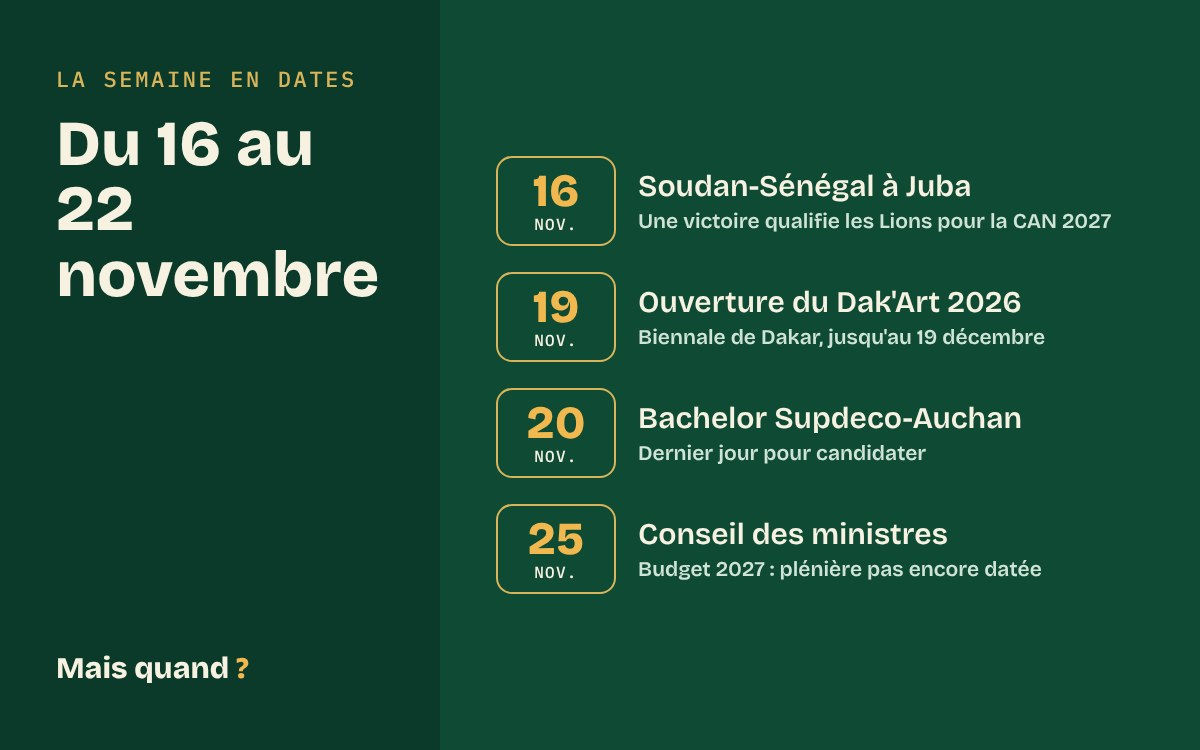
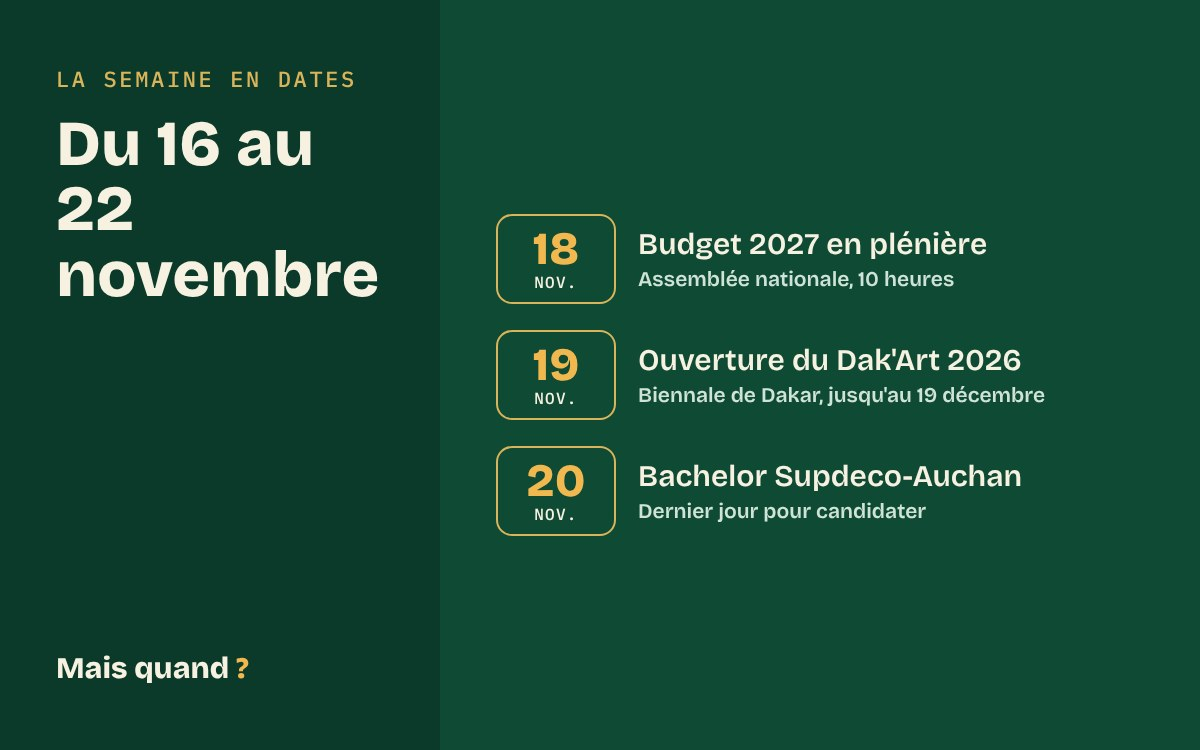
Semaine en dates : plénière du 18 novembre, victoire 4-2 à Juba
Claude-Session: https://claude.ai/code/session_011uKcnQFGUBZrCq8XKYaVDU

Changed region(s): [[0.4008, 0.184, 0.925, 0.7973]]

diff --git a/index.html b/index.html
@@ -376,7 +376,7 @@ footer{border-top:1px solid var(--line);padding-block:24px;color:var(--muted);fo
 
 <script>
 const ARTICLES = [
- {"id":"la-semaine-en-dates-16-au-22-novembre","cat":"Société","titre":"La semaine en dates : ce qui vous attend du 16 au 22 novembre","chapo":"Les Lions peuvent se qualifier pour la CAN 2027, le Dak'Art s'ouvre à Dakar, dernier jour pour une formation gratuite avec embauche… Voici les dates à retenir cette semaine.","date":"2026-11-16","min":2,"c":["#5b3a6e","#a983c2"],"photo":"images/articles/semaine-en-dates-16-novembre.jpg","pos":"center","texte":["Après la fin des JOJ, la semaine est plus calme, mais plusieurs rendez-vous comptent. Voici ce qu'il faut savoir, jour par jour.","**Lundi 16 novembre** : les Lions affrontent le Soudan à Juba (Soudan du Sud), pour le match retour de la 4e journée des éliminatoires de la CAN 2027. Après leur victoire 4-1 à Dakar le 12 novembre, une nouvelle victoire leur assurerait la qualification, selon la presse. C'est aussi le dernier jour d'examen des budgets ministériels en commission à l'Assemblée nationale, selon le calendrier rapporté par Dakaractu.","**Jeudi 19 novembre** : ouverture du **Dak'Art 2026**, la 16e Biennale de l'art africain contemporain, jusqu'au 19 décembre. Les expositions se tiennent notamment à l'ancien Palais de justice, au Musée des civilisations noires et au musée de l'IFAN. Le programme détaillé n'est pas encore publié.","**Vendredi 20 novembre** : dernier jour pour candidater au **Bachelor Supdeco-Auchan**, une formation gratuite de 12 mois en alternance avec embauche à la clé, selon l'école. Il faut déjà un Bac +2. Candidature uniquement sur le site de Supdeco.","**Impôts et douane** : pas de nouvelle échéance annoncée cette semaine par la DGID ou la Douane, à notre connaissance. Rappel : depuis le 1er octobre, la plateforme en ligne SENTAX est ouverte aux contribuables des centres CME1, CME2 et CPR, selon la DGID. Côté importations, la suspension des importations de sucre, annoncée pour 8 à 9 mois, entre en vigueur avec la reprise de l'usine de la CSS.","**Financements, marchés et formations** : nous n'avons trouvé aucun nouvel appel à candidatures officiel de la DER/FJ ni de l'ONFP cette semaine. Méfiez-vous des faux appels qui circulent sur WhatsApp : seuls les sites der.sn et onfp.sn font foi.","**Budget 2027** : la date du vote en séance plénière n'est toujours pas connue. Prochain Conseil des ministres : mercredi 25 novembre.","À noter pour la fin du mois : ouverture de la campagne arachidière fin novembre, Forum international des chargeurs africains (FICA 2026) à Dakar du 30 novembre au 2 décembre, et prochain indice des prix des matériaux de construction de l'ANSD vers le 30 novembre.","Toutes les dates suivies sont sur la page « Mais quand ? » du site."],"sait":["Lundi 16 novembre : Soudan-Sénégal à Juba ; une victoire qualifierait les Lions pour la CAN 2027.","Jeudi 19 novembre : ouverture du Dak'Art 2026, jusqu'au 19 décembre.","Vendredi 20 novembre : dernier jour pour le Bachelor Supdeco-Auchan."],"saitPas":["La date du vote du budget 2027 en séance plénière.","Le programme détaillé de l'ouverture du Dak'Art."],"src":[{"n":"Le Soleil : Sénégal-Soudan (4-1)","u":"https://lesoleil.sn/actualites/sports/senegal-soudan-4-1-de-la-magie-dans-lair-au-stade-leopold-sedar-senghor/"},{"n":"Le Soleil : les Lions à 90 minutes d'une qualification à la CAN 2027","u":"https://lesoleil.sn/actualites/sports/senegal-soudan-a-13h00-les-lions-a-90-minutes-dune-qualification-a-la-can-2027/"},{"n":"Le Soleil : la Biennale prévue à Dakar du 19 novembre au 19 décembre 2026","u":"https://lesoleil.sn/actualites/arts-et-culture/arts-contemporains-africains-la-biennale-prevue-a-dakar-du-19-novembre-au-19-decembre-2026/"},{"n":"Au Sénégal : Dak'Art 2026, tout ce qu'il faut savoir","u":"https://au-senegal.com/dak-art-2026-tout-ce-qu-il-faut-savoir-sur-la-prochaine-biennale-de-dakar,18544.html?lang=fr"},{"n":"Dakaractu : la Commission des finances rejette la LFI et tous les budgets ministériels","u":"https://www.dakaractu.com/Budget-2027-La-commission-des-finances-rejette-la-LFI-et-tous-les-budgets-ministeriels_a277929.html"},{"n":"DGID : actualités et communiqués","u":"https://www.dgid.sn/communication"},{"n":"DER/FJ : site officiel","u":"https://www.der.sn/"},{"n":"Mais quand ? : Vrai, Auchan finance une formation avec embauche","u":"https://maisquand.com/v/vf-auchan-supdeco-bachelor/"},{"n":"Mais quand ? : sucre, l'État suspend de nouveau les importations","u":"https://maisquand.com/a/sucre-l-etat-suspend-de-nouveau-les-importations-a-partir-de-novembre/"}]},
+ {"id":"la-semaine-en-dates-16-au-22-novembre","cat":"Société","titre":"La semaine en dates : ce qui vous attend du 16 au 22 novembre","chapo":"Vote du budget 2027 en séance plénière, ouverture du Dak'Art, Lions en route vers la CAN 2027, dernier jour pour une formation gratuite avec embauche… Voici les dates à retenir cette semaine.","date":"2026-11-16","min":2,"c":["#5b3a6e","#a983c2"],"photo":"images/articles/semaine-en-dates-16-novembre.jpg","pos":"center","texte":["Après la fin des JOJ, la semaine est plus calme, mais plusieurs rendez-vous comptent. Voici ce qu'il faut savoir, jour par jour.","**Lundi 16 novembre** : les Lions ont battu le Soudan 4-2 à Juba (Soudan du Sud), après le 4-1 de l'aller à Dakar. Ils sont en tête du groupe J ; leur qualification pour la CAN 2027 pourrait être acquise dès mardi selon le résultat de Mozambique-Éthiopie, selon la presse. C'était aussi le dernier jour d'examen des budgets ministériels en commission.","**Mercredi 18 novembre** : **séance plénière à l'Assemblée nationale sur le budget 2027**, à 10 heures, selon Dakarposte et Senegal24news. Les députés voteront d'abord les recettes, puis les crédits de chaque ministère, après le rejet de presque tous les budgets en commission. Nous suivrons le vote.","**Jeudi 19 novembre** : ouverture du **Dak'Art 2026**, la 16e Biennale de l'art africain contemporain, jusqu'au 19 décembre. Les expositions se tiennent notamment à l'ancien Palais de justice, au Musée des civilisations noires et au musée de l'IFAN. Le programme détaillé n'est pas encore publié.","**Vendredi 20 novembre** : dernier jour pour candidater au **Bachelor Supdeco-Auchan**, une formation gratuite de 12 mois en alternance avec embauche à la clé, selon l'école. Il faut déjà un Bac +2. Candidature uniquement sur le site de Supdeco.","**Impôts et douane** : pas de nouvelle échéance annoncée cette semaine par la DGID ou la Douane, à notre connaissance. Rappel : depuis le 1er octobre, la plateforme en ligne SENTAX est ouverte aux contribuables des centres CME1, CME2 et CPR, selon la DGID. Côté importations, la suspension des importations de sucre, annoncée pour 8 à 9 mois, entre en vigueur avec la reprise de l'usine de la CSS.","**Financements, marchés et formations** : nous n'avons trouvé aucun nouvel appel à candidatures officiel de la DER/FJ ni de l'ONFP cette semaine. Méfiez-vous des faux appels qui circulent sur WhatsApp : seuls les sites der.sn et onfp.sn font foi.","**Mercredi 25 novembre** : prochain Conseil des ministres.","À noter pour la fin du mois : ouverture de la campagne arachidière fin novembre, Forum international des chargeurs africains (FICA 2026) à Dakar du 30 novembre au 2 décembre, et prochain indice des prix des matériaux de construction de l'ANSD vers le 30 novembre.","Toutes les dates suivies sont sur la page « Mais quand ? » du site."],"sait":["Mercredi 18 novembre, 10 heures : séance plénière sur le budget 2027, selon la presse.","Jeudi 19 novembre : ouverture du Dak'Art 2026, jusqu'au 19 décembre.","Vendredi 20 novembre : dernier jour pour le Bachelor Supdeco-Auchan."],"saitPas":["Le résultat du vote du budget 2027 et la suite en cas de rejet.","Le programme détaillé de l'ouverture du Dak'Art."],"src":[{"n":"Le Soleil : Sénégal-Soudan (4-1)","u":"https://lesoleil.sn/actualites/sports/senegal-soudan-4-1-de-la-magie-dans-lair-au-stade-leopold-sedar-senghor/"},{"n":"Le Soleil : les Lions à 90 minutes d'une qualification à la CAN 2027","u":"https://lesoleil.sn/actualites/sports/senegal-soudan-a-13h00-les-lions-a-90-minutes-dune-qualification-a-la-can-2027/"},{"n":"Senego : le Sénégal renverse le Soudan et s'impose 4-2 à Juba","u":"https://senego.com/le-senegal-renverse-le-soudan-et-simpose-4-2-a-juba-apres-avoir-ete-rejoint_2024553.html"},{"n":"Dakarposte : les députés convoqués en séance plénière le mercredi 18 novembre 2026","u":"https://www.dakarposte.com/Assemblee-nationale-Les-deputes-convoques-en-seance-pleniere-ce-mercredi-18-novembre-2026-pour-l-examen-du-projet-de-Loi_a88335.html"},{"n":"Le Soleil : la Biennale prévue à Dakar du 19 novembre au 19 décembre 2026","u":"https://lesoleil.sn/actualites/arts-et-culture/arts-contemporains-africains-la-biennale-prevue-a-dakar-du-19-novembre-au-19-decembre-2026/"},{"n":"Au Sénégal : Dak'Art 2026, tout ce qu'il faut savoir","u":"https://au-senegal.com/dak-art-2026-tout-ce-qu-il-faut-savoir-sur-la-prochaine-biennale-de-dakar,18544.html?lang=fr"},{"n":"Dakaractu : la Commission des finances rejette la LFI et tous les budgets ministériels","u":"https://www.dakaractu.com/Budget-2027-La-commission-des-finances-rejette-la-LFI-et-tous-les-budgets-ministeriels_a277929.html"},{"n":"DGID : actualités et communiqués","u":"https://www.dgid.sn/communication"},{"n":"DER/FJ : site officiel","u":"https://www.der.sn/"},{"n":"Mais quand ? : Vrai, Auchan finance une formation avec embauche","u":"https://maisquand.com/v/vf-auchan-supdeco-bachelor/"},{"n":"Mais quand ? : sucre, l'État suspend de nouveau les importations","u":"https://maisquand.com/a/sucre-l-etat-suspend-de-nouveau-les-importations-a-partir-de-novembre/"}]},
  {"id":"budget-2027-transports-taxis-autocars-ce-qui-etait-prevu","cat":"Société","titre":"Budget 2027 des Transports : 2 000 taxis, 100 autocars… ce qui était prévu avant le rejet en commission","chapo":"Le projet de budget 2027 du ministère des Transports terrestres et aériens, 104,34 milliards de francs CFA, a été rejeté en commission le 13 novembre. Il prévoyait notamment 2 000 taxis urbains à Dakar et Thiès et 100 autocars. Ce qui était prévu, et ce que ce rejet veut dire.","date":"2026-11-15","min":3,"c":["#0f4a35","#2f9e5b"],"texte":["Le vendredi 13 novembre, les commissions de l'Assemblée nationale ont **rejeté le projet de budget 2027 du ministère des Transports terrestres et aériens**, d'un montant de **104,34 milliards de francs CFA (environ 159 millions d'euros)**, rapportent Senego, Seneweb et PressAfrik. Il s'agit d'un **projet présenté en commission, pas d'un budget voté** : le texte doit encore passer en séance plénière.","**Ce que prévoyait le projet**, selon la presse :","• **Transport routier : 48,68 milliards de francs CFA** (environ 74 millions d'euros), pour la modernisation du BRT et le renouvellement du parc : **2 000 taxis urbains à Dakar et Thiès**, **100 taxis de proximité** dans les localités de l'intérieur et **100 autocars**, ainsi que des **systèmes intelligents de gestion de la circulation** ;","• **Transport ferroviaire : 44,17 milliards** (environ 67 millions d'euros) : études du prolongement du TER vers Thiès, gare de Sébikotane et relance de la ligne Dakar-Tambacounda, selon Senego ;","• **Transport aérien : 9,62 milliards** (environ 15 millions d'euros) ;","• la **mise en exploitation envisagée des plateformes logistiques de Bel Air (Dakar) et de Tambacounda**, pour désengorger le port de Dakar.","**Pourquoi le rejet ?** Les députés ont mis en doute la cohérence et la transparence du projet, et soulevé l'état des routes, les accidents, les embouteillages et la vétusté du parc automobile, selon Senego. Ce rejet s'inscrit aussi dans le bras de fer plus large sur le budget 2027 : le 7 novembre, la Commission des finances avait déjà rejeté le projet de loi de finances 2027 et l'ensemble des budgets ministériels.","**Les réactions.** Le ministre **Abdou Lahad Ndiaye** a reconnu que son projet « n'a malheureusement pas obtenu l'approbation » de la commission, tout en défendant des projets qui, selon lui, amélioreront les déplacements des citoyens, rapporte Seneweb. Le porte-parole d'un syndicat de chauffeurs de taxi urbains, Malick Diop, a désapprouvé le rejet : il partage le constat des députés sur l'état du secteur, mais estime que les réformes ont besoin de moyens, selon PressAfrik.","**Et maintenant ?** Tant que le budget 2027 n'est pas voté, ces projets ne sont pas financés. La date de la séance plénière n'est pas connue. Sans budget voté, celui de 2026 pourrait être reconduit, selon la presse ; notre article sur le budget 2027 suit le dossier."],"sait":["Le projet de budget 2027 des Transports (104,34 milliards de francs CFA) a été rejeté en commission le 13 novembre.","Il prévoyait 2 000 taxis urbains à Dakar et Thiès, 100 taxis de proximité, 100 autocars et des systèmes intelligents de gestion de la circulation.","Ce n'est qu'un projet : le budget 2027 doit encore passer en séance plénière."],"saitPas":["La date du vote en séance plénière et le sort final du budget 2027.","Le calendrier et le mode d'attribution des taxis et autocars prévus (renouvellement, conditions pour les chauffeurs)."],"src":[{"n":"Senego : les députés rejettent le projet du ministère des Transports, doté de 104,3 milliards FCFA","u":"https://senego.com/budget-2027-les-deputes-rejettent-le-projet-du-ministere-des-transports-dote-de-1043-milliards-fcfa_2023742.html"},{"n":"Seneweb : le ministre Abdou Lahad Ndiaye réagit au rejet de son projet","u":"https://www.seneweb.com/fr/news/Transport/budget-2027-des-transports-le-ministre-abdou-lahad-ndiaye-reagit-au-rejet-de-son-projet-par-la-commission-des-finances_n_999003583.html"},{"n":"Senego : TER vers Thiès, gare de Sébikotane, les priorités ferroviaires de 2027","u":"https://senego.com/ter-vers-thies-gare-de-sebikotane-les-priorites-ferroviaires-de-2027_2023727.html"},{"n":"PressAfrik : les chauffeurs de taxi désapprouvent le rejet du budget 2027 du ministère","u":"https://www.pressafrik.com/Transports-terrestres-au-Senegal-les-chauffeurs-de-taxi-desapprouvent-le-rejet-du-budget-2027-du-ministere_a314595.html"},{"n":"Mais quand ? : Budget 2027, le FMI suit « de très près » le bras de fer à l'Assemblée","u":"https://maisquand.com/a/lfr-2026-pas-de-vote-le-texte-renvoye-en-commission/"}],"photo":"images/articles/brt-dakar-station.jpg"},
  {"id":"la-semaine-en-5-infos-9-au-15-novembre","cat":"Société","titre":"La semaine en 5 infos : du 9 au 15 novembre","chapo":"Fin des JOJ avec 12 médailles pour le Sénégal, naufrage de Lompoul, budget 2027 sous le regard du FMI, sucre, Starlink… Voici ce qu'il fallait retenir de la semaine.","date":"2026-11-15","min":2,"photo":"images/articles/la-semaine-en-5-infos.jpg","pos":"center","c":["#0f4a35","#2f9e5b"],"texte":["Chaque dimanche, Mais quand ? résume en cinq points les informations de la semaine à ne pas manquer. Les articles complets sont dans les sources, en bas de page."],"conseils":[["JOJ Dakar 2026 : 12 médailles, dont 5 en or, pour le Sénégal","Les premiers Jeux olympiques organisés en Afrique se sont terminés le 13 novembre. Le Sénégal finit 6e au classement des médailles, selon la presse, avec 5 titres et 7 bronzes. L'or d'Élisabeth Diatta en lutte de plage est la première médaille d'or olympique de l'histoire du pays, selon l'agence AP."],["Naufrage de Lompoul : le bilan s'alourdit","Le dernier point officiel des sapeurs-pompiers, le 11 novembre, faisait état de 42 morts et d'un seul rescapé ; le quotidien Libération parle désormais de 45 morts. Selon ce journal, le vendeur de la pirogue a été entendu par les enquêteurs. L'État a annoncé une aide d'un million de francs CFA par famille endeuillée."],["Budget 2027 : le FMI suit « de très près » le bras de fer","Après le rejet de la LFR 2026 et celui du budget 2027 en commission, le FMI rappelle que les institutions sénégalaises sont souveraines, mais juge essentiel un budget conforme aux engagements pour poursuivre son programme de 2,2 milliards de dollars. La date du vote en séance plénière n'est toujours pas connue."],["Sucre : les importations de nouveau suspendues","L'État suspend les importations de sucre pour 8 à 9 mois, afin de protéger la production de la CSS pendant la campagne sucrière. Le ministère reconnaît que le sucre importé est souvent moins cher : comparez les prix et évitez les achats de panique."],["Starlink reste suspendu","La Cour suprême a rejeté la demande de l'État de lever la suspension de l'autorisation de Starlink, contestée par la Sonatel. Ce n'est pas une décision définitive : le fond du dossier doit encore être jugé, sans date annoncée."]],"apres":["À suivre cette semaine : le 19 novembre, ouverture du Dak'Art 2026 ; le 20 novembre, dernier jour pour candidater au Bachelor Supdeco-Auchan ; d'ici fin novembre, ouverture de la campagne arachidière."],"src":[{"n":"JOJ Dakar 2026 : le Sénégal termine avec 12 médailles, dont 5 en or","u":"https://maisquand.com/a/joj-dakar-2026-bilan-final-le-senegal-termine-avec-12-medailles/"},{"n":"Naufrage au large de Lompoul : 45 morts selon un nouveau bilan","u":"https://maisquand.com/a/kebemer-naufrage-presume-d-une-pirogue-21-morts/"},{"n":"Budget 2027 : le FMI suit « de très près » le bras de fer à l'Assemblée","u":"https://maisquand.com/a/lfr-2026-pas-de-vote-le-texte-renvoye-en-commission/"},{"n":"Sucre : l'État suspend de nouveau les importations, pour 8 à 9 mois","u":"https://maisquand.com/a/sucre-l-etat-suspend-de-nouveau-les-importations-a-partir-de-novembre/"},{"n":"Starlink : la Cour suprême maintient la suspension de la licence au Sénégal","u":"https://maisquand.com/a/starlink-la-cour-supreme-maintient-la-suspension-de-la-licence/"}]},
  {"id":"starlink-la-cour-supreme-maintient-la-suspension-de-la-licence","cat":"Société","titre":"Starlink : la Cour suprême maintient la suspension de la licence au Sénégal","chapo":"L'État demandait à la Cour suprême de revenir sur la suspension de l'autorisation accordée à Starlink. Sa requête a été rejetée début novembre : la licence reste suspendue jusqu'au jugement sur le fond, saisi par la Sonatel. Ce que l'on sait.","date":"2026-11-14","min":3,"c":["#0f4a35","#2f9e5b"],"texte":["La Cour suprême a **rejeté la demande de l'État** qui voulait lever la suspension de l'autorisation d'exploitation de **Starlink Sénégal**, filiale de l'américain SpaceX, rapportent Seneweb, Dakaractu et Osiris. La décision a été rendue le 3 novembre selon la plupart des médias, le 4 novembre selon d'autres. **La suspension reste donc en vigueur.**","**D'où vient le dossier ?** Par un arrêté du 6 novembre 2025 (n° 038974), le ministère des Télécommunications avait autorisé Starlink à exploiter au Sénégal, pour cinq ans renouvelables, un service d'accès fixe à Internet par satellite. La **Sonatel** a contesté cette autorisation : après le rejet de son recours auprès du ministre, elle a saisi la Cour suprême. Elle reproche notamment le non-respect de l'obligation de publier les documents liés aux autorisations, prévue par l'article 63 du Code des communications électroniques, et met en avant ses propres investissements, évalués à **134,5 milliards de francs CFA (environ 205 millions d'euros)**, selon Seneweb.","En **septembre 2026**, la Cour suprême avait ordonné la suspension provisoire de l'autorisation, en attendant de juger le fond. L'État, représenté par l'Agent judiciaire de l'État, a demandé un réexamen en invoquant comme élément nouveau la publication récente du cahier des charges de Starlink. Cette demande a été rejetée.","**Ce n'est pas une décision définitive.** La Cour suprême doit encore juger le fond du recours de la Sonatel, c'est-à-dire la légalité même de l'autorisation. Aucune date n'a été annoncée.","**Et les abonnés ?** Nous n'avons trouvé aucun communiqué de Starlink ni de l'Autorité de régulation des télécommunications et des postes (ARTP) sur la situation des clients au Sénégal. Les décisions de justice rapportées par la presse ne disent pas si les abonnés actuels seront coupés.","Le dossier divise. Pour ses partisans, Starlink peut connecter les zones rurales mal desservies et faire baisser les prix ; pour ses opposants, l'arrivée d'un opérateur étranger doit respecter les mêmes règles que les opérateurs installés. Le montant de la licence, **100 millions de francs CFA (environ 152 450 euros)** pour cinq ans selon Osiris, alimente aussi le débat."],"sait":["La Cour suprême a rejeté début novembre la demande de l'État de lever la suspension de l'autorisation de Starlink.","La suspension, ordonnée en septembre à la demande de la Sonatel, reste en vigueur jusqu'au jugement sur le fond.","L'autorisation date du 6 novembre 2025, pour cinq ans renouvelables."],"saitPas":["Quand la Cour suprême jugera le fond du dossier.","Ce que deviennent les abonnés actuels de Starlink au Sénégal : ni Starlink ni l'ARTP n'ont communiqué à ce sujet, à notre connaissance."],"chrono":[["2025-11-06","Arrêté autorisant Starlink Sénégal à exploiter un service d'Internet par satellite."],["2026-09-07","La Cour suprême suspend provisoirement l'autorisation, saisie par la Sonatel."],["2026-11-03","La Cour suprême rejette la demande de l'État de lever la suspension."]],"src":[{"n":"Seneweb : Starlink au Sénégal, la Cour suprême a tranché","u":"https://www.seneweb.com/fr/news/Justice/starlink-au-senegal-la-cour-supreme-a-tranche_n_999002707.html"},{"n":"Dakaractu : la Cour suprême confirme la suspension de la licence","u":"https://www.dakaractu.com/Starlink-La-Cour-supreme-confirme-la-suspension-de-la-licence-au-Senegal_a277823.html"},{"n":"Osiris : la Cour suprême maintient la suspension de l'autorisation d'exploitation","u":"https://www.osiris.sn/starlink-au-senegal-la-cour-supreme-maintient-la-suspension-de-l-autorisation-d.html"},{"n":"Dakaractu : la Cour suprême ordonne la suspension de la licence de Starlink (septembre)","u":"https://www.dakaractu.com/Senegal-La-Cour-supreme-ordonne-la-suspension-de-la-licence-de-Starlink-en-attendant-l-examen-au-fond-du-recours-pour_a275735.html"},{"n":"Osiris : Starlink à 100 millions FCFA pour cinq ans","u":"https://www.osiris.sn/starlink-a-100-millions-fcfa-pour-cinq-ans-au-senegal-le-cahier-des-charges.html"},{"n":"Le Petit Journal : la Cour suprême oppose un non à Starlink","u":"https://lepetitjournal.com/dakar/la-cour-supreme-oppose-un-non-definitif-starlink-458091"}],"photo":"images/articles/starlink-cour-supreme.jpg"},
@@ -630,7 +630,6 @@ const SRC={
 /* Une date par ligne, gérée depuis admin/dates.html.
    f : niveau de fiabilité — haut (confirmée), moy (estimée ou période connue), bas (déduite des années précédentes) */
 const ATTENTES=[
- {"q":"Quand rejouent les Lions ?","id":"lions-nov","d":"2026-11-16","c":"Sport","f":"moy","fd":"Date annoncée par la presse, à confirmer","note":"Match retour contre le Soudan, à Juba (Soudan du Sud), lundi 16 novembre (éliminatoires CAN 2027, journée 4). Une victoire qualifierait le Sénégal pour la CAN 2027, selon la presse.","src":[{"n":"Le Soleil : Sénégal-Soudan (4-1), de la magie dans l'air au stade Léopold-Sédar-Senghor","u":"https://lesoleil.sn/actualites/sports/senegal-soudan-4-1-de-la-magie-dans-lair-au-stade-leopold-sedar-senghor/"},{"n":"Le Soleil : les Lions à 90 minutes d'une qualification à la CAN 2027","u":"https://lesoleil.sn/actualites/sports/senegal-soudan-a-13h00-les-lions-a-90-minutes-dune-qualification-a-la-can-2027/"},{"n":"Bénin Web TV : Sénégal-Soudan prévu au stade Léopold-Sédar-Senghor","u":"https://beninwebtv.bj/can-2027-senegal-soudan-prevu-au-stade-leopold-sedar-senghor/"},{"n":"Radiosports : calendrier des éliminatoires CAN 2027","u":"https://radiosports.fr/can-2027-calendrier-resultats.html"},{"n":"RTS : le Sénégal dans le groupe J","u":"https://www.rts.sn/actualite/detail/a-la-une/eliminatoires-can-2027-le-senegal-dans-le-groupe-j-avec-le-mozambique-le-soudan-et-lethiopie"}],"hist":[["2026-11-16","Match retour à Juba annoncé pour le 16 novembre."],["2026-11-12","Victoire 4-1 contre le Soudan au stade Léopold-Sédar-Senghor (journée 3) : le Sénégal prend la tête du groupe J."],["2026-11-02","Match à Dakar annoncé pour le 12 novembre par la presse."],["2026-09-29","Victoire 1-0 en Éthiopie (journée 2)."],["2026-09-25","Match nul 1-1 contre le Mozambique (journée 1)."]]},
  {"q":"Quand a lieu le concours des agents de police ?","id":"police-agents","d":"2026-11-16","c":"Concours","f":"bas","fd":"Approximative, d'après le calendrier indicatif","note":"Vers la mi-novembre, niveau BFEM.","obs":"Seuls les candidats inscrits avant fin juin 2026 sont concernés. Surveillez les convocations et la liste des centres.","src":[{"n":"Ndarinfo : calendrier indicatif police et douanes","u":"https://www.ndarinfo.com/tags/concours+douanes+s%C3%A9n%C3%A9gal+2026/"}],"hist":[["2026-10-09","Attente créée à partir du calendrier indicatif."]]},
  {"q":"Quand commence le Dak'Art 2026 ?","id":"dakart","d":"2026-11-19","c":"Culture","f":"haut","fd":"Confirmée par les organisateurs","note":"Biennale de Dakar, du 19 novembre au 19 décembre.","src":[{"n":"Le Soleil : la Biennale du 19 novembre au 19 décembre 2026","u":"https://lesoleil.sn/actualites/arts-et-culture/arts-contemporains-africains-la-biennale-prevue-a-dakar-du-19-novembre-au-19-decembre-2026/"}],"hist":[["2026-01-27","Dates annoncées."]]},
  {"q":"Quand ouvrent les inscriptions au concours ENSAE ?","id":"ensae","d":"2026-12-01","c":"Concours","f":"bas","fd":"Approximative, d'après 2026","note":"Concours ISE. Inscriptions jusqu'à fin janvier, épreuve vers début avril.","src":[{"n":"Senego : concours de la fonction publique 2026","u":"https://senego.com/dossier/concours-fonction-publique"}],"hist":[["2026-10-09","Attente créée : en 2026, inscriptions du 1er décembre au 31 janvier."]]},
@@ -669,6 +668,7 @@ const ATTENTES=[
 ];
 /* Attentes résolues, les plus récentes en premier (admin/dates.html, bouton « Résolue »). */
 const RESOLUES=[
+ {"r":"Les Lions ont rejoué le jeudi 12 novembre (victoire 4-1 contre le Soudan à Dakar) et le lundi 16 novembre (victoire 4-2 à Juba).","q":"Quand rejouent les Lions ?","d":"2026-11-16","src":{"n":"Senego : le Sénégal renverse le Soudan et s'impose 4-2 à Juba","u":"https://senego.com/le-senegal-renverse-le-soudan-et-simpose-4-2-a-juba-apres-avoir-ete-rejoint_2024553.html"}},
  {"r":"Les 7, 8 et 10 novembre 2026, de 6 h à 16 h, pour les épreuves sur route des JOJ.","q":"Quand la Corniche Ouest est-elle fermée pendant les JOJ ?","d":"2026-11-10","src":{"n":"Le Petit Journal : changements de circulation pendant les JOJ","u":"https://lepetitjournal.com/dakar/joj-dakar-2026-la-capitale-se-prepare-dimportants-changements-de-circulation-456308"}},
  {"r":"Les inscriptions ont été closes le vendredi 13 novembre 2026.","q":"Jusqu'à quand s'inscrire au recrutement de l'armée (contingent 2027) ?","d":"2026-11-13","src":{"n":"Dakaractu : inscriptions du 16 octobre au 13 novembre","u":"https://www.dakaractu.com/Armee-Recrutement-militaire-2027-les-inscriptions-prevues-du-16-octobre-au-13-novembre_a270913.html"}},
  {"r":"Le 15 novembre 2026, date fixée par le Conseil interministériel du 22 octobre.","q":"Quand s'ouvre la campagne de commercialisation du coton ?","d":"2026-11-15","src":{"n":"Primature : campagne de commercialisation des produits agricoles 2026-2027","u":"https://primature.sn/publications/actualites/campagne-de-commercialisation-des-produits-agricoles-2026-2027"}},

diff --git a/outils/visuel-semaine.html b/outils/visuel-semaine.html
@@ -13,8 +13,7 @@ li p{margin:0;font-size:30px;line-height:1.15;font-weight:600}li p span{display:
 </style></head><body>
 <div class="g"><div><div class="k">La semaine en dates</div><h1>Du 16 au 22 novembre</h1></div><div class="l">Mais quand <em>?</em></div></div>
 <ul>
-<li><div class="d"><b>16</b><small>nov.</small></div><p>Soudan-Sénégal à Juba<span>Une victoire qualifie les Lions pour la CAN 2027</span></p></li>
+<li><div class="d"><b>18</b><small>nov.</small></div><p>Budget 2027 en plénière<span>Assemblée nationale, 10 heures</span></p></li>
 <li><div class="d"><b>19</b><small>nov.</small></div><p>Ouverture du Dak'Art 2026<span>Biennale de Dakar, jusqu'au 19 décembre</span></p></li>
 <li><div class="d"><b>20</b><small>nov.</small></div><p>Bachelor Supdeco-Auchan<span>Dernier jour pour candidater</span></p></li>
-<li><div class="d"><b>25</b><small>nov.</small></div><p>Conseil des ministres<span>Budget 2027 : plénière pas encore datée</span></p></li>
 </ul></body></html>
